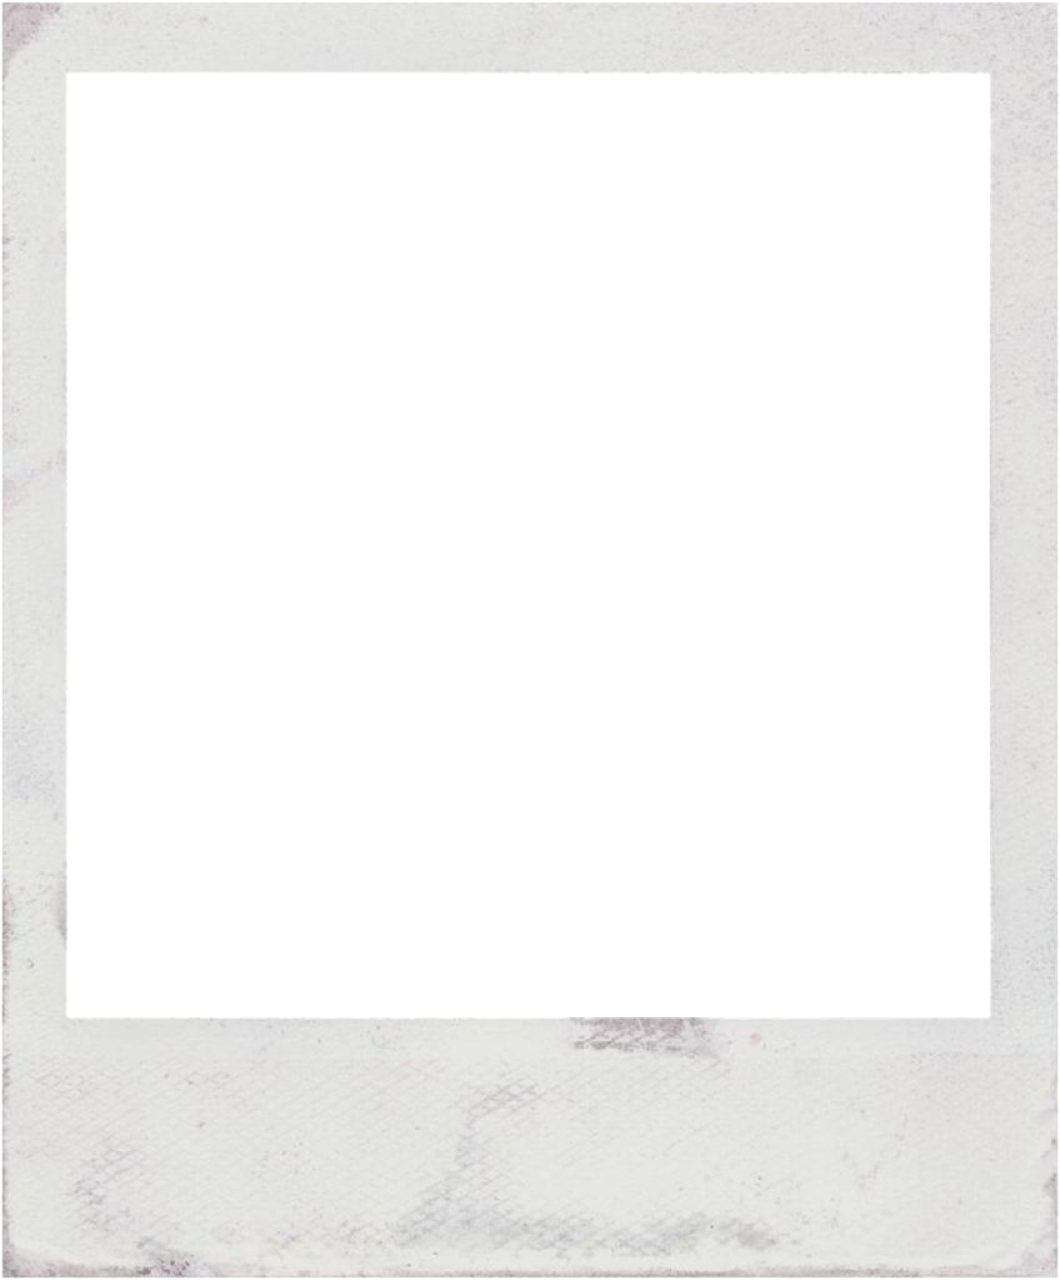
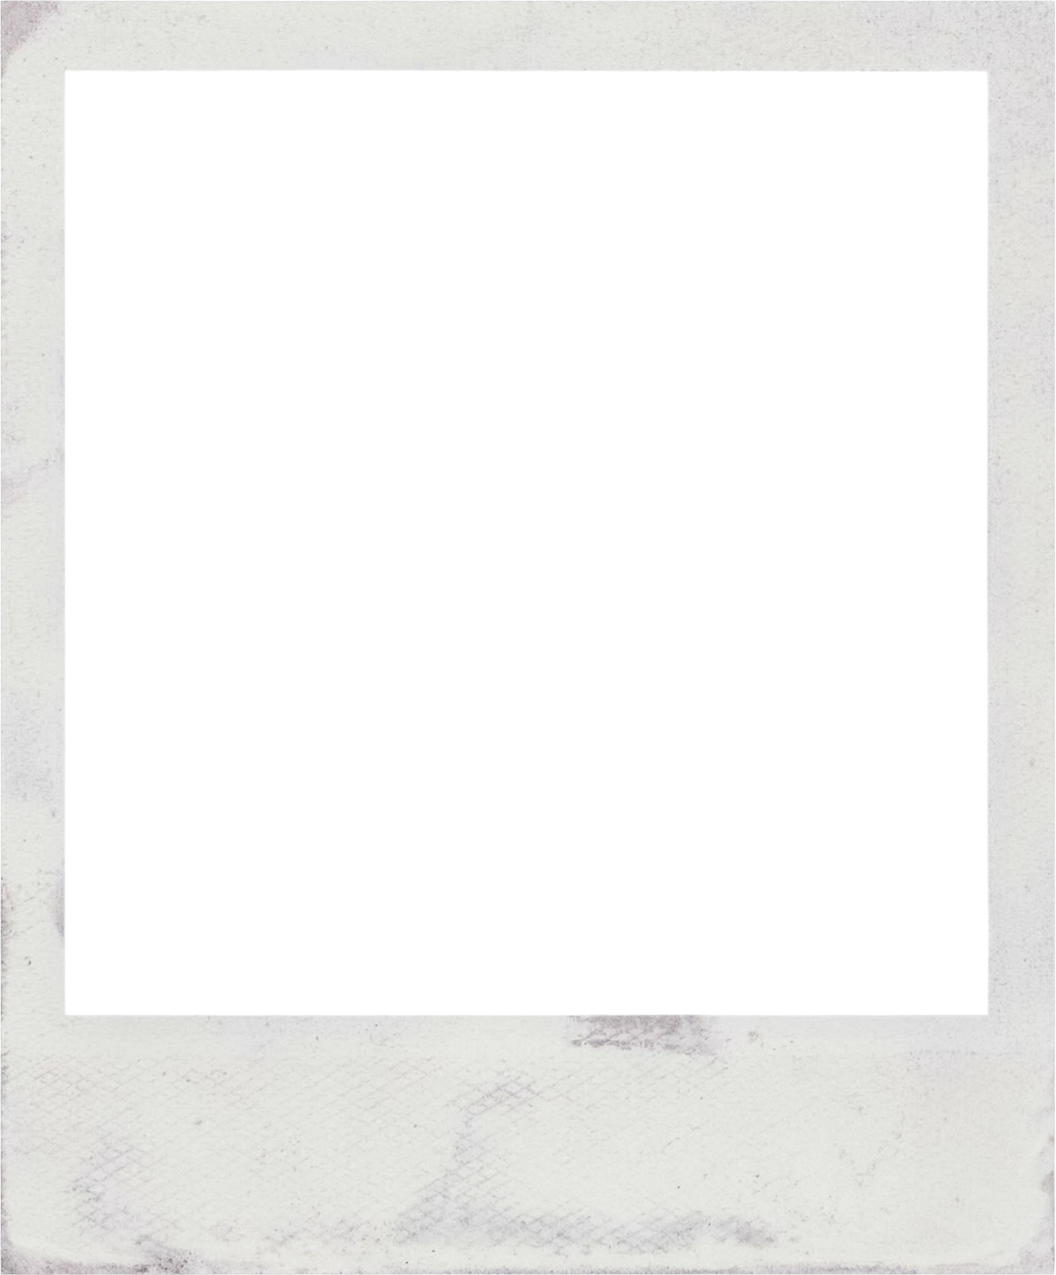
Cadres Froissé/Patiné/Déchiré/Instax Crème/Papier : détourages fournis
Remplace les versions issues des JPEG (détourage par luminance,
insuffisant hors fond blanc) par les PNG alpha détourés fournis —
géométries re-mesurées sur les nouveaux fichiers.

diff --git a/js/frames.js b/js/frames.js
@@ -26,8 +26,8 @@ export const FRAMES = [
   {
     id: 'instax-creme',
     name: 'Instax Crème',
-    W: 806, H: 1250,
-    img: { x: 54, y: 105, w: 698, h: 920 },
+    W: 804, H: 1250,
+    img: { x: 55, y: 106, w: 694, h: 917 },
     scale: 1.6,
     overlay: 'assets/frame-instax-creme.png',
     paper: '#f4ecd8',
@@ -62,8 +62,8 @@ export const FRAMES = [
   {
     id: 'froisse',
     name: 'Froissé',
-    W: 1027, H: 1244,
-    img: { x: 57, y: 83, w: 905, h: 913 },
+    W: 1022, H: 1240,
+    img: { x: 55, y: 82, w: 903, h: 911 },
     scale: 1.5,
     overlay: 'assets/frame-froisse.png',
     paper: '#f7f7f7',
@@ -71,8 +71,8 @@ export const FRAMES = [
   {
     id: 'patine',
     name: 'Patiné',
-    W: 1060, H: 1280,
-    img: { x: 65, y: 71, w: 925, h: 949 },
+    W: 1056, H: 1275,
+    img: { x: 65, y: 71, w: 922, h: 944 },
     scale: 1.5,
     overlay: 'assets/frame-patine.png',
     paper: '#f2f1ee',
@@ -80,8 +80,8 @@ export const FRAMES = [
   {
     id: 'dechire',
     name: 'Déchiré',
-    W: 1169, H: 1406,
-    img: { x: 45, y: 88, w: 1077, h: 1029 },
+    W: 1167, H: 1402,
+    img: { x: 43, y: 88, w: 1077, h: 1025 },
     scale: 1.4,
     overlay: 'assets/frame-dechire.png',
     paper: '#f6f3ef',
@@ -89,8 +89,8 @@ export const FRAMES = [
   {
     id: 'papier',
     name: 'Papier',
-    W: 1097, H: 1500,
-    img: { x: 130, y: 124, w: 841, h: 1238 },
+    W: 1021, H: 1439,
+    img: { x: 88, y: 101, w: 838, h: 1233 },
     scale: 1.4,
     overlay: 'assets/frame-papier.png',
     paper: '#f3efe6',
